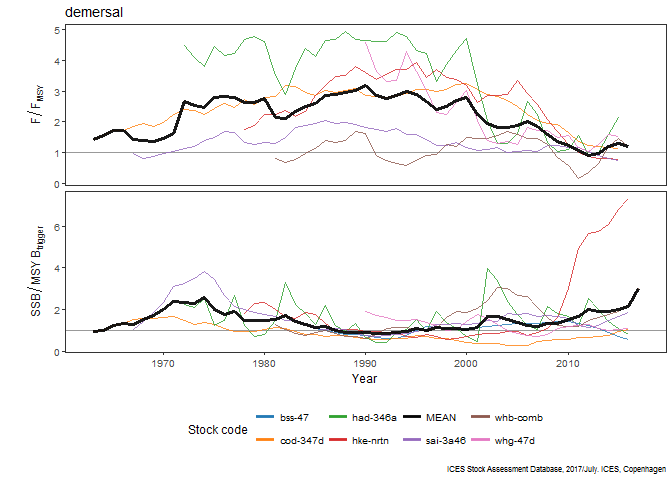
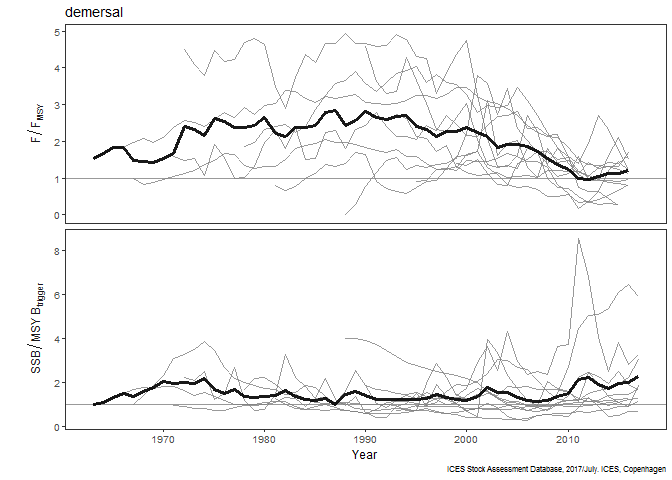
update with new grouping_var

diff --git a/README.md b/README.md
@@ -157,6 +157,7 @@ Stock trends can be grouped by different parameters. `object` specifies the grou
 ``` r
 
 fisheryO::stock_trends_fun(object = "Greater North Sea Ecoregion", 
+                           plotting_var = "StockCode",
                            grouping_var = "EcoRegion",
                            active_year = 2016,
                            data_caption = TRUE,
@@ -169,8 +170,9 @@ fisheryO::stock_trends_fun(object = "Greater North Sea Ecoregion",
 ``` r
 
 fisheryO::stock_trends_fun(object = "Greater North Sea Ecoregion - demersal stocks", 
+                           plotting_var = "StockCode",
                            grouping_var = "EcoGuild",
-                           active_year = 2016,
+                           active_year = 2017,
                            data_caption = TRUE,
                            return_plot = TRUE,
                            save_plot = FALSE)
@@ -180,15 +182,29 @@ fisheryO::stock_trends_fun(object = "Greater North Sea Ecoregion - demersal stoc
 
 ``` r
 
-fisheryO::stock_trends_fun(object = "demersal", 
+fisheryO::stock_trends_fun(object = "demersal",
+                           plotting_var = "StockCode",
                            grouping_var = "FisheriesGuild",
-                           active_year = 2016,
+                           active_year = 2017,
                            data_caption = TRUE,
                            return_plot = TRUE,
                            save_plot = FALSE)
 ```
 
 ![](README-stocktrends_example-3.png)
+
+``` r
+
+fisheryO::stock_trends_fun(object = "Greater North Sea Ecoregion", 
+                           grouping_var = "EcoRegion",
+                           plotting_var = "FisheriesGuild",
+                           active_year = 2017,
+                           data_caption = TRUE,
+                           return_plot = TRUE,
+                           save_plot = FALSE)
+```
+
+![](README-stocktrends_example-4.png)
 
 Notes
 -----
